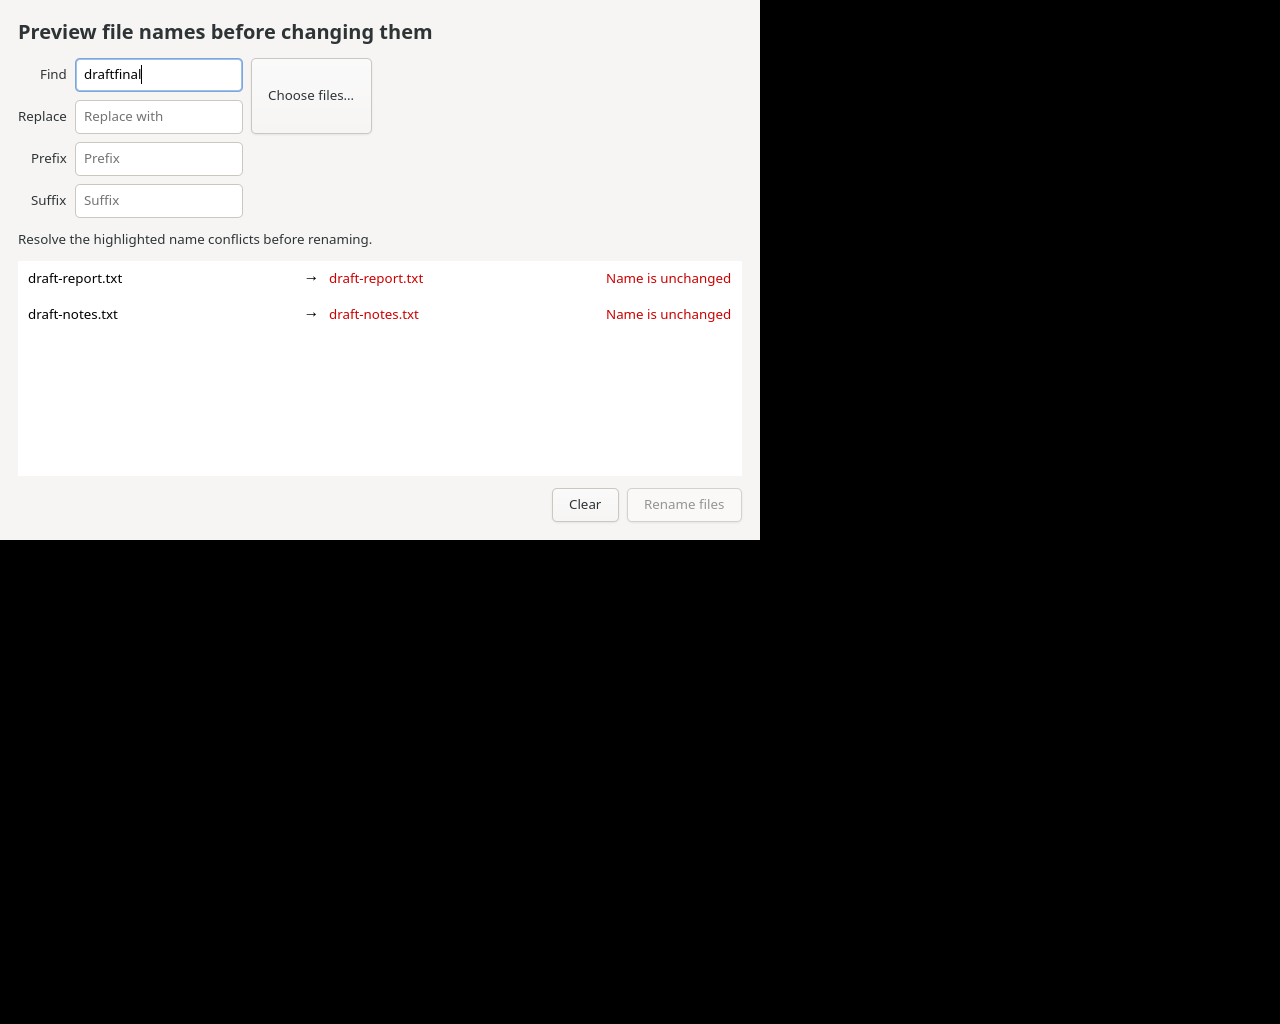
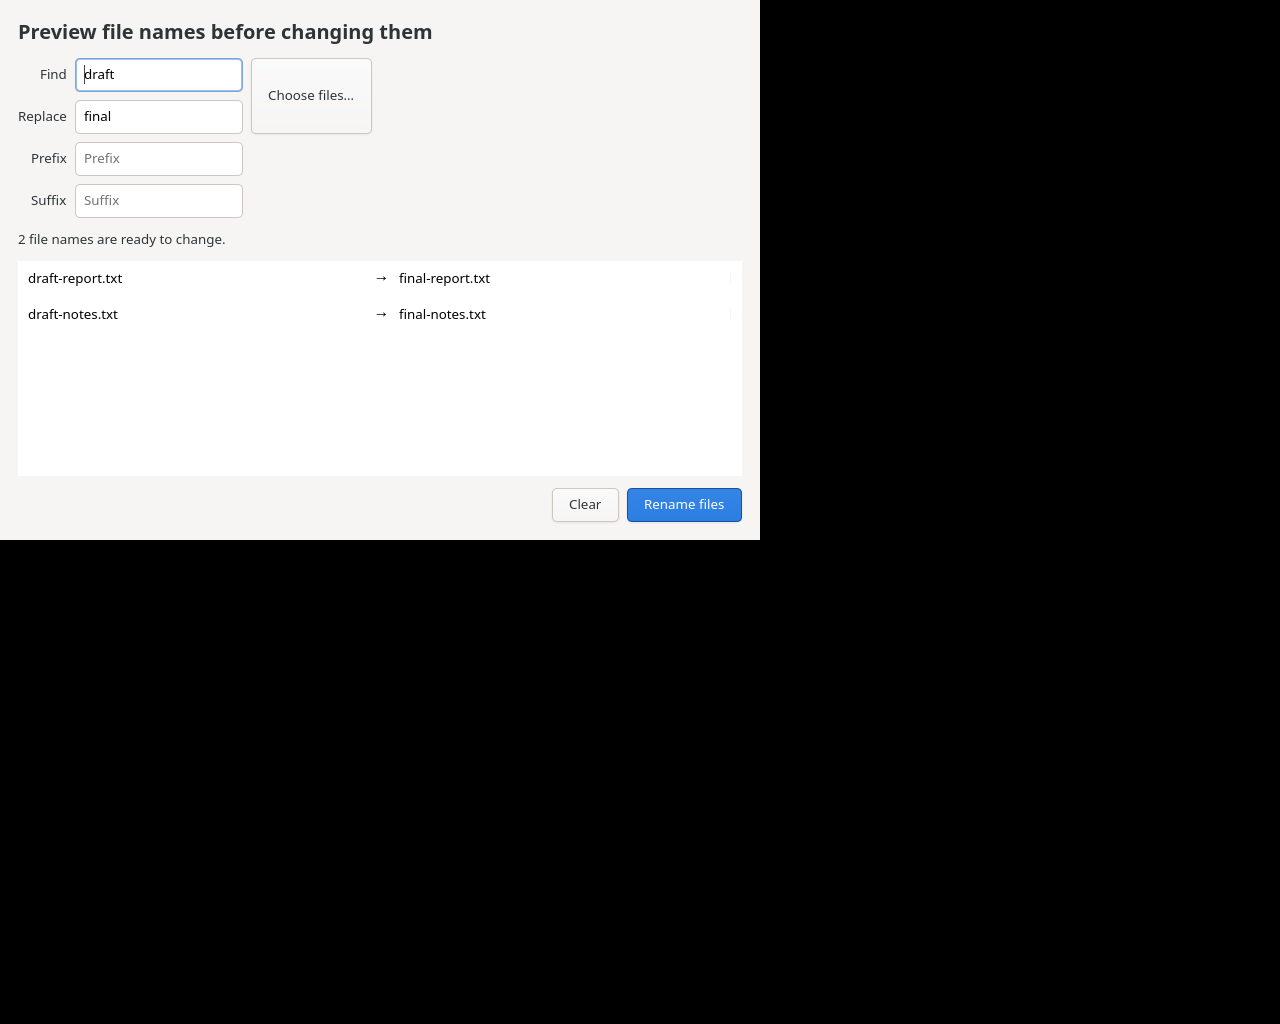
docs: Show Name Shift rename preview

diff --git a/documentation/SCREENSHOTS.md b/documentation/SCREENSHOTS.md
@@ -8,6 +8,6 @@ App screenshots show the current local build in English. The Calendar image is a
 | Clip Shelf | [clip-shelf.png](screenshots/clip-shelf.png) | The manual local clipboard shelf UI. |
 | GNOME Calendar default reminder patch | [calendar-default-reminder.png](screenshots/calendar-default-reminder.png) | The source-derived Preferences UI showing a calendar-specific default reminder. |
 | Command Shelf | [command-shelf.png](screenshots/command-shelf.png) | Named local snippets and explicit clipboard copying. |
-| Name Shift | [name-shift.png](screenshots/name-shift.png) | Loaded local files and the validation state before a rename can be applied. |
+| Name Shift | [name-shift.png](screenshots/name-shift.png) | A valid local rename preview before the explicit rename action is applied. |
 
 For patches without a visible interface, `VALIDATION.md` records the testable behavior and commands instead of inventing a visual result.
